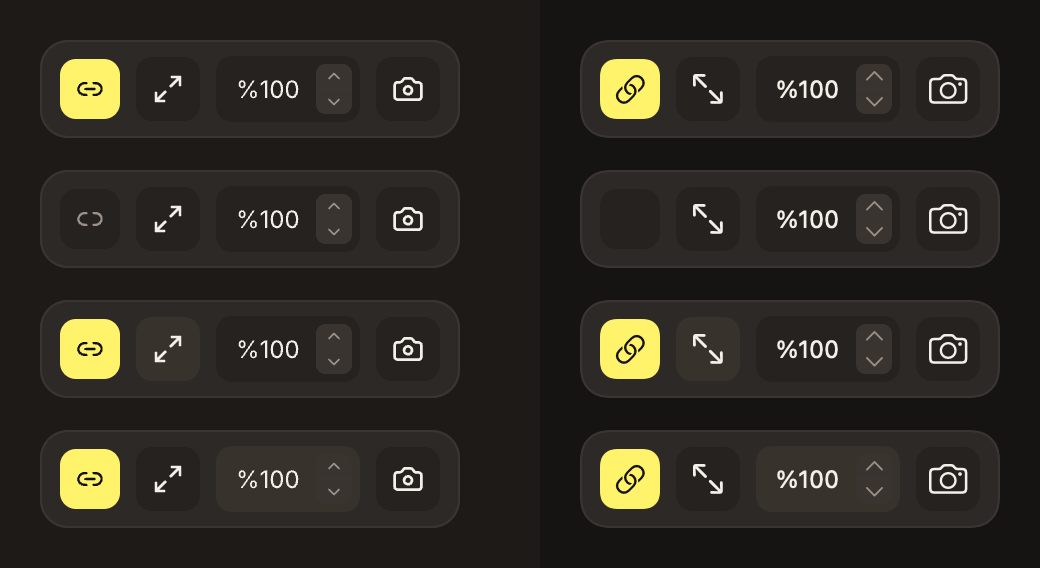
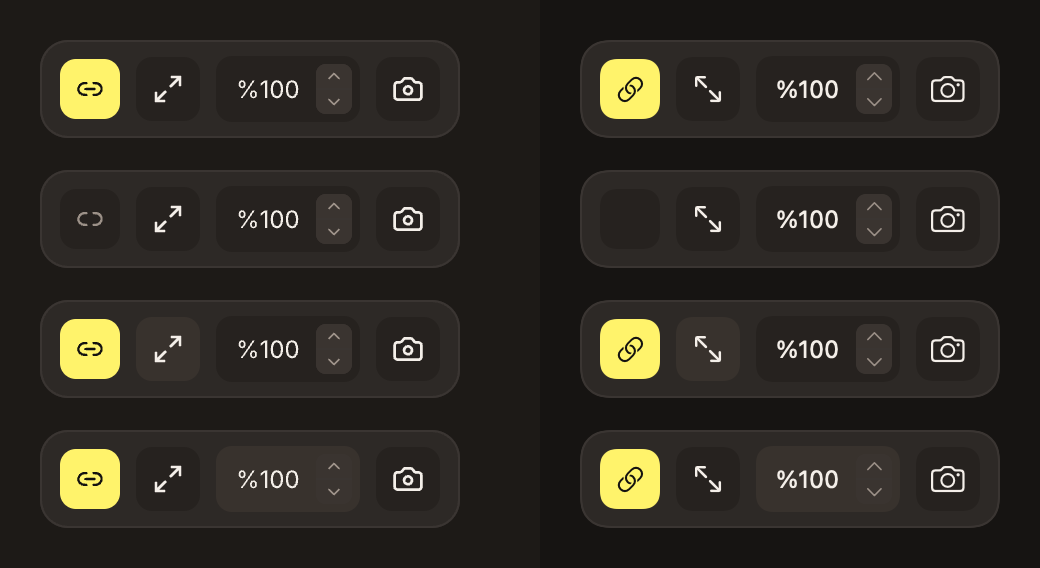
Decide SF Symbol size against Lucide: 0.875x regular
Comparison board rendered with real SF Symbols next to the design export
(bottom bar and rail, options 1.0 / 0.875 / 0.8125 / 0.8125 light). Skeleton
views take the scale from an environment value, default 0.875; rail skeleton
added; MCP icon becomes powerplug.portrait.

diff --git a/design/handoff/skeleton/InspectorRail.swift b/design/handoff/skeleton/InspectorRail.swift
@@ -1,0 +1,124 @@
+// Generated by design/handoff/gen_skeleton.py from specs/InspectorRail.json (2026-10-13) — trial skeleton, regenerate, do not edit.
+// pen.dev `Window/Rail` (O8YpHG), 44×900. States in DESIGN.md §6: öğe: default, hover, active, badge; ray gizliyken `RailHandle`
+// Pencerenin sağ kenarı, 44 px, tam yükseklik.
+// fill surface/bar · sol stroke line · padding 12 / 6 · gap 6.
+// Öğe 32×32, radius/control, ikon 16 ink/secondary. Sıra: Ayarlar, Cihazlar, MCP, Hesap · ayırıcı (20×1 line) · Farklar, Senkron · boşluk · daralt.
+// Hover: fill surface/header-leader. Aktif (panel açık): fill surface/header-leader + ikon ink/primary.
+// Rozet: 7 px status/warning nokta, öğenin sağ üstü (22,4).
+// Gizli: ray kalkar, canvas 44 px genişler; sağ kenarda üstte Window/RailHandle (24×56, sol köşeler 8) kalır. Farklar bulgusu varken tutamaçta mercan nokta. Tık, ⌥⌘0 ya da Görünüm menüsü rayı geri getirir; hover “Rayı göster ⌥⌘0”.
+import SwiftUI
+
+public struct InspectorRail: View {
+    public enum State { case varsayilan, rozet, hoverCihazlar, aktifFarklarAcik, tooltipRayOgesi }
+    public var state: State = .varsayilan
+    public var rIcon: String? = "gearshape"
+    public var rIconSize: CGFloat = 16
+    public var rIcon2: String? = "iphone"
+    public var rIcon2Size: CGFloat = 16
+    public var rIcon3: String? = "powerplug.portrait"
+    public var rIcon3Size: CGFloat = 16
+    public var rIcon4: String? = "person"
+    public var rIcon4Size: CGFloat = 16
+    public var rIcon5: String? = "square.split.2x1"
+    public var rIcon5Size: CGFloat = 16
+    public var rIcon6: String? = "waveform.path.ecg"
+    public var rIcon6Size: CGFloat = 16
+    public var rIcon7: String? = "sidebar.right"
+    public var rIcon7Size: CGFloat = 16
+    public var padding: EdgeInsets = EdgeInsets(top: 12, leading: 6, bottom: 12, trailing: 6)
+    public var background: Color = DesignTokens.Color.surfaceBar
+    public init(state: State = .varsayilan, rIcon: String? = "gearshape", rIconSize: CGFloat = 16, rIcon2: String? = "iphone", rIcon2Size: CGFloat = 16, rIcon3: String? = "powerplug.portrait", rIcon3Size: CGFloat = 16, rIcon4: String? = "person", rIcon4Size: CGFloat = 16, rIcon5: String? = "square.split.2x1", rIcon5Size: CGFloat = 16, rIcon6: String? = "waveform.path.ecg", rIcon6Size: CGFloat = 16, rIcon7: String? = "sidebar.right", rIcon7Size: CGFloat = 16, padding: EdgeInsets = EdgeInsets(top: 12, leading: 6, bottom: 12, trailing: 6), background: Color = DesignTokens.Color.surfaceBar) {
+        self.state = state
+        self.rIcon = rIcon
+        self.rIconSize = rIconSize
+        self.rIcon2 = rIcon2
+        self.rIcon2Size = rIcon2Size
+        self.rIcon3 = rIcon3
+        self.rIcon3Size = rIcon3Size
+        self.rIcon4 = rIcon4
+        self.rIcon4Size = rIcon4Size
+        self.rIcon5 = rIcon5
+        self.rIcon5Size = rIcon5Size
+        self.rIcon6 = rIcon6
+        self.rIcon6Size = rIcon6Size
+        self.rIcon7 = rIcon7
+        self.rIcon7Size = rIcon7Size
+        self.padding = padding
+        self.background = background
+    }
+
+    public var body: some View {
+        VStack(alignment: .center, spacing: 6) {  // Window/Rail
+            HStack(alignment: .center, spacing: 0) {  // Rail Ayarlar
+                if let rIcon {
+                    SkeletonSymbol(name: rIcon, size: rIconSize)
+                        .frame(width: rIconSize, height: rIconSize)
+                        .foregroundStyle(DesignTokens.Color.inkSecondary)
+                }
+            }
+            .frame(width: 32, height: 32)
+            HStack(alignment: .center, spacing: 0) {  // Rail Cihazlar
+                if let rIcon2 {
+                    SkeletonSymbol(name: rIcon2, size: rIcon2Size)
+                        .frame(width: rIcon2Size, height: rIcon2Size)
+                        .foregroundStyle(DesignTokens.Color.inkSecondary)
+                }
+            }
+            .frame(width: 32, height: 32)
+            .background((state == .tooltipRayOgesi ? DesignTokens.Color.surfaceHeaderLeader : (state == .hoverCihazlar ? DesignTokens.Color.surfaceHeaderLeader : Color.clear)), in: RoundedRectangle(cornerRadius: DesignTokens.Radius.control, style: .continuous))
+            HStack(alignment: .center, spacing: 0) {  // Rail MCP
+                if let rIcon3 {
+                    SkeletonSymbol(name: rIcon3, size: rIcon3Size)
+                        .frame(width: rIcon3Size, height: rIcon3Size)
+                        .foregroundStyle(DesignTokens.Color.inkSecondary)
+                }
+            }
+            .frame(width: 32, height: 32)
+            HStack(alignment: .center, spacing: 0) {  // Rail Hesap
+                if let rIcon4 {
+                    SkeletonSymbol(name: rIcon4, size: rIcon4Size)
+                        .frame(width: rIcon4Size, height: rIcon4Size)
+                        .foregroundStyle(DesignTokens.Color.inkSecondary)
+                }
+            }
+            .frame(width: 32, height: 32)
+            RoundedRectangle(cornerRadius: 0).fill(DesignTokens.Color.line)
+            .frame(width: 20, height: 1)
+            HStack(alignment: .center, spacing: 0) {  // Rail Diff
+                if let rIcon5 {
+                    SkeletonSymbol(name: rIcon5, size: rIcon5Size)
+                        .frame(width: rIcon5Size, height: rIcon5Size)
+                        .foregroundStyle((state == .aktifFarklarAcik ? DesignTokens.Color.inkPrimary : DesignTokens.Color.inkSecondary))
+                }
+                Circle().fill(DesignTokens.Color.statusWarning)
+                .frame(width: 7, height: 7)
+            }
+            .frame(width: 32, height: 32)
+            .background((state == .aktifFarklarAcik ? DesignTokens.Color.surfaceHeaderLeader : Color.clear), in: RoundedRectangle(cornerRadius: DesignTokens.Radius.control, style: .continuous))
+            HStack(alignment: .center, spacing: 0) {  // Rail Senkron
+                if let rIcon6 {
+                    SkeletonSymbol(name: rIcon6, size: rIcon6Size)
+                        .frame(width: rIcon6Size, height: rIcon6Size)
+                        .foregroundStyle(DesignTokens.Color.inkSecondary)
+                }
+            }
+            .frame(width: 32, height: 32)
+            HStack(alignment: .center, spacing: 0) {  // RailSpacer
+            }
+            .frame(width: 1)
+            .frame(maxHeight: .infinity)
+            HStack(alignment: .center, spacing: 0) {  // Rail Collapse
+                if let rIcon7 {
+                    SkeletonSymbol(name: rIcon7, size: rIcon7Size)
+                        .frame(width: rIcon7Size, height: rIcon7Size)
+                        .foregroundStyle(DesignTokens.Color.inkSecondary)
+                }
+            }
+            .frame(width: 32, height: 32)
+        }
+        .padding(padding)
+        .frame(width: 44, height: 900)
+        .background(background, in: RoundedRectangle(cornerRadius: 0, style: .continuous))
+        .overlay(RoundedRectangle(cornerRadius: 0, style: .continuous).strokeBorder(DesignTokens.Color.line, lineWidth: 1 /* one side only */))
+    }
+}

diff --git a/design/handoff/skeleton/SkeletonSymbol.swift b/design/handoff/skeleton/SkeletonSymbol.swift
@@ -1,12 +1,31 @@
 // Generated by design/handoff/gen_skeleton.py — shared helper for skeleton views.
 import SwiftUI
 
+/// How big an SF Symbol is drawn relative to the Lucide box size in the design (`size`). SF Symbols at the same
+/// point size look larger than Lucide icons; the ratio is a design decision (DESIGN.md §4, icon size).
+public struct SkeletonIconStyle: Sendable {
+    public var scale: CGFloat
+    public var weight: Font.Weight
+    /// Decided 2026-10-13 (DESIGN.md §4): SF Symbol point size = Lucide box × 0.875, regular (16 → 14 pt).
+    public init(scale: CGFloat = 0.875, weight: Font.Weight = .regular) { self.scale = scale; self.weight = weight }
+}
+private struct SkeletonIconStyleKey: EnvironmentKey { static let defaultValue = SkeletonIconStyle() }
+public extension EnvironmentValues {
+    var skeletonIconStyle: SkeletonIconStyle {
+        get { self[SkeletonIconStyleKey.self] }
+        set { self[SkeletonIconStyleKey.self] = newValue }
+    }
+}
+
 /// SF Symbol, or an asset-catalog symbol for the custom ones in design/handoff/icons.md (`link.slash`, engine glyphs).
 public struct SkeletonSymbol: View {
     public static let custom: Set<String> = ["link.slash", "engine.webkit", "engine.chromium", "engine.firefox"]
+    @Environment(\.skeletonIconStyle) private var style
     public let name: String
-    public init(name: String) { self.name = name }
+    public let size: CGFloat
+    public init(name: String, size: CGFloat) { self.name = name; self.size = size }
     public var body: some View {
-        if Self.custom.contains(name) { Image(name) } else { Image(systemName: name) }
+        Group { if Self.custom.contains(name) { Image(name) } else { Image(systemName: name) } }
+            .font(.system(size: size * style.scale, weight: style.weight))
     }
 }

diff --git a/design/handoff/skeleton/ZoomControl.swift b/design/handoff/skeleton/ZoomControl.swift
@@ -30,8 +30,7 @@ public struct ZoomControl: View {
             VStack(alignment: .leading, spacing: 1) {  // Stepper
                 HStack(alignment: .center, spacing: 0) {  // Up
                     if let upIcon {
-                        SkeletonSymbol(name: upIcon)
-                            .font(.system(size: upIconSize))
+                        SkeletonSymbol(name: upIcon, size: upIconSize)
                             .frame(width: upIconSize, height: upIconSize)
                             .foregroundStyle(DesignTokens.Color.inkSecondary)
                     }
@@ -40,8 +39,7 @@ public struct ZoomControl: View {
                 .background(DesignTokens.Color.surfacePill, in: RoundedRectangle(cornerRadius: 0, style: .continuous))
                 HStack(alignment: .center, spacing: 0) {  // Down
                     if let downIcon {
-                        SkeletonSymbol(name: downIcon)
-                            .font(.system(size: downIconSize))
+                        SkeletonSymbol(name: downIcon, size: downIconSize)
                             .frame(width: downIconSize, height: downIconSize)
                             .foregroundStyle(DesignTokens.Color.inkSecondary)
                     }

diff --git a/design/handoff/skeleton/BottomBar.swift b/design/handoff/skeleton/BottomBar.swift
@@ -28,8 +28,7 @@ public struct BottomBar: View {
         HStack(alignment: .center, spacing: DesignTokens.Space.s2) {  // Window/BottomBar
             HStack(alignment: .center, spacing: 6) {  // Sync Toggle
                 if let syncIcon {
-                    SkeletonSymbol(name: (state == .senkronKapali ? "link.slash" : syncIcon))
-                        .font(.system(size: syncIconSize))
+                    SkeletonSymbol(name: (state == .senkronKapali ? "link.slash" : syncIcon), size: syncIconSize)
                         .frame(width: syncIconSize, height: syncIconSize)
                         .foregroundStyle((state == .senkronKapali ? DesignTokens.Color.inkSecondary : DesignTokens.Color.accentInk))
                 }

diff --git a/design/handoff/skeleton/ChromeButton.swift b/design/handoff/skeleton/ChromeButton.swift
@@ -19,8 +19,7 @@ public struct ChromeButton: View {
     public var body: some View {
         HStack(alignment: .center, spacing: 6) {  // Toolbar/Button
             if let icon {
-                SkeletonSymbol(name: icon)
-                    .font(.system(size: iconSize))
+                SkeletonSymbol(name: icon, size: iconSize)
                     .frame(width: iconSize, height: iconSize)
                     .foregroundStyle(DesignTokens.Color.inkPrimary)
             }

diff --git a/design/handoff/gen_skeleton.py b/design/handoff/gen_skeleton.py
@@ -182,8 +182,7 @@ class Gen:
                 for st, v in per.items():
                     sym = f"(state == .{st} ? {json.dumps(symbol(v)[0])} : {sym})"
             return [f"{pad}if let {p} {{",
-                    f"{pad}    SkeletonSymbol(name: {sym if per else p})",
-                    f"{pad}        .font(.system(size: {size}))",
+                    f"{pad}    SkeletonSymbol(name: {sym if per else p}, size: {size})",
                     f"{pad}        .frame(width: {size}, height: {size})",
                     f"{pad}        .foregroundStyle({self.val(nid, 'fill', tok(n.get('fill', '$ink/primary')))})",
                     f"{pad}}}"]
@@ -290,13 +289,32 @@ class Gen:
 SUPPORT = '''// Generated by design/handoff/gen_skeleton.py — shared helper for skeleton views.
 import SwiftUI
 
+/// How big an SF Symbol is drawn relative to the Lucide box size in the design (`size`). SF Symbols at the same
+/// point size look larger than Lucide icons; the ratio is a design decision (DESIGN.md §4, icon size).
+public struct SkeletonIconStyle: Sendable {
+    public var scale: CGFloat
+    public var weight: Font.Weight
+    /// Decided 2026-10-13 (DESIGN.md §4): SF Symbol point size = Lucide box × 0.875, regular (16 → 14 pt).
+    public init(scale: CGFloat = 0.875, weight: Font.Weight = .regular) { self.scale = scale; self.weight = weight }
+}
+private struct SkeletonIconStyleKey: EnvironmentKey { static let defaultValue = SkeletonIconStyle() }
+public extension EnvironmentValues {
+    var skeletonIconStyle: SkeletonIconStyle {
+        get { self[SkeletonIconStyleKey.self] }
+        set { self[SkeletonIconStyleKey.self] = newValue }
+    }
+}
+
 /// SF Symbol, or an asset-catalog symbol for the custom ones in design/handoff/icons.md (`link.slash`, engine glyphs).
 public struct SkeletonSymbol: View {
     public static let custom: Set<String> = ["link.slash", "engine.webkit", "engine.chromium", "engine.firefox"]
+    @Environment(\.skeletonIconStyle) private var style
     public let name: String
-    public init(name: String) { self.name = name }
+    public let size: CGFloat
+    public init(name: String, size: CGFloat) { self.name = name; self.size = size }
     public var body: some View {
-        if Self.custom.contains(name) { Image(name) } else { Image(systemName: name) }
+        Group { if Self.custom.contains(name) { Image(name) } else { Image(systemName: name) } }
+            .font(.system(size: size * style.scale, weight: style.weight))
     }
 }
 '''

diff --git a/design/handoff/build_icons.py b/design/handoff/build_icons.py
@@ -63,7 +63,7 @@ MAP = {
     "panel-right-open": ("Ray tutamacı › Rayı göster", "sidebar.right", "yakın", "SF'de aç/kapa ayrımı yok; aynı sembol."),
     "pause": ("Kart başlığı › senkron kapalı ‖", "pause", "1:1", ""),
     "pencil": ("Yeniden adlandır", "pencil", "1:1", ""),
-    "plug": ("Ray › MCP", "powerplug", "yakın", ""),
+    "plug": ("Ray › MCP", "powerplug.portrait", "1:1", "Dikey fiş, Lucide ile aynı yön (DESIGN.md §4)."),
     "plus": ("+ Cihaz, + Ekle, + Yeni", "plus", "1:1", ""),
     "rotate-ccw": ("Hover şeridi › Döndür", "rectangle.portrait.rotate", "öneri", "`arrow.counterclockwise` Geri al ile karışır; cihaz döndürme sembolü daha açık."),
     "rotate-cw": ("Sidebar nav › Yenile", "arrow.clockwise", "1:1", ""),
@@ -118,6 +118,8 @@ def main():
          "Arşiv dışı tüm görünür ikon düğümleri, instance içleri dahil.", "",
          "Tür: **1:1** aynı anlam ve şekil · **yakın** aynı anlam, şekil biraz farklı · **öneri** birebir karşılık yok, öneri "
          "(onaylandı, DESIGN.md §4 2026-10-13) · **özel** Assets'e özel sembol gerekir · **sistem** sembol değil, AppKit çizer.", "",
+         "**Boyut:** SF Symbol puntosu = tasarımdaki Lucide kutusu × 0.875, ağırlık regular (16 → 14 pt, 14 → 12,25, 10 → 8,75); "
+         "aynı puntoda SF Symbols Lucide'den iri görünür. Karşılaştırma `skeleton/icon-size-options@2x.png`, karar DESIGN.md §4 (2026-10-13).", "",
          ("SF adları macOS 26'da `NSImage(systemSymbolName:)` ile doğrulandı (`python3 build_icons.py --verify`)."
           if checked else "SF adları bu çalıştırmada doğrulanmadı (`--verify` yok)."), "",
          "| Nerede | Lucide | SF Symbol | Tür | Not | Kaynak (bileşen · ekran) |", "|---|---|---|---|---|---|"]

diff --git a/design/handoff/icons.md b/design/handoff/icons.md
@@ -4,6 +4,8 @@
 
 Tür: **1:1** aynı anlam ve şekil · **yakın** aynı anlam, şekil biraz farklı · **öneri** birebir karşılık yok, öneri (onaylandı, DESIGN.md §4 2026-10-13) · **özel** Assets'e özel sembol gerekir · **sistem** sembol değil, AppKit çizer.
 
+**Boyut:** SF Symbol puntosu = tasarımdaki Lucide kutusu × 0.875, ağırlık regular (16 → 14 pt, 14 → 12,25, 10 → 8,75); aynı puntoda SF Symbols Lucide'den iri görünür. Karşılaştırma `skeleton/icon-size-options@2x.png`, karar DESIGN.md §4 (2026-10-13).
+
 SF adları macOS 26'da `NSImage(systemSymbolName:)` ile doğrulandı (`python3 build_icons.py --verify`).
 
 | Nerede | Lucide | SF Symbol | Tür | Not | Kaynak (bileşen · ekran) |
@@ -22,7 +24,6 @@ SF adları macOS 26'da `NSImage(systemSymbolName:)` ile doğrulandı (`python3 b
 | Kaldır › Listeden kaldır | `list-x` | `text.badge.xmark` | yakın |  | Home Window ×1 |
 | Ray › Rayı gizle | `panel-right-close` | `sidebar.right` | yakın | SF'de aç/kapa ayrımı yok; aynı sembol. | `Window/Rail`, Dev Panel ×3, Project Window ×21, 2 durum frame'i |
 | Ray tutamacı › Rayı göster | `panel-right-open` | `sidebar.right` | yakın | SF'de aç/kapa ayrımı yok; aynı sembol. | `Window/RailHandle`, Project Window ×1, 1 durum frame'i |
-| Ray › MCP | `plug` | `powerplug` | yakın |  | `Window/Rail`, Dev Panel ×3, Home Window ×1, Project Window ×21, 2 durum frame'i |
 | Aramada sonuç yok | `search-x` | `magnifyingglass` | yakın | SF'de çarpılı büyüteç yok. | 1 durum frame'i |
 | Boyut popover'ı › en ↔ boy | `arrow-left-right` | `arrow.left.arrow.right` | 1:1 |  | 1 durum frame'i |
 | URL kutusu › Aç → | `arrow-right` | `arrow.right` | 1:1 |  | `Home/URLBox`, Home Window ×6, 2 durum frame'i |
@@ -55,6 +56,7 @@ SF adları macOS 26'da `NSImage(systemSymbolName:)` ile doğrulandı (`python3 b
 | Kenar çubuğu düğmesi (kapsülde) | `panel-left` | `sidebar.left` | 1:1 |  | `Window/CollapsedHeader`, Project Window ×2, 1 durum frame'i |
 | Kart başlığı › senkron kapalı ‖ | `pause` | `pause` | 1:1 |  | 2 durum frame'i |
 | Yeniden adlandır | `pencil` | `pencil` | 1:1 |  | Home Window ×2, 1 durum frame'i |
+| Ray › MCP | `plug` | `powerplug.portrait` | 1:1 | Dikey fiş, Lucide ile aynı yön (DESIGN.md §4). | `Window/Rail`, Dev Panel ×3, Home Window ×1, Project Window ×21, 2 durum frame'i |
 | + Cihaz, + Ekle, + Yeni | `plus` | `plus` | 1:1 |  | `Device/Picker`, `Toolbar/Button`, `Window/DeviceStrip`, Dev Panel ×3, Home Window ×6, Project Window ×22, 4 durum frame'i |
 | Sidebar nav › Yenile | `rotate-cw` | `arrow.clockwise` | 1:1 |  | `Sidebar/Header`, `Window/CollapsedHeader`, Dev Panel ×3, Project Window ×22, 2 durum frame'i |
 | Cihaz seçici › Özel boyut | `ruler` | `ruler` | 1:1 |  | `Device/Picker`, Project Window ×2 |

diff --git a/design/KOD-OTURUMU-ISLERI.md b/design/KOD-OTURUMU-ISLERI.md
@@ -152,3 +152,4 @@ Her etkileşim için DESIGN.md'deki etkileşim tablosu sözleşmedir. Arayüze d
 - [ ] **Kabul listesi = DESIGN.md §3 etkileşim id'leri** (`HOME-01`…, `STRIP-01`…, `CARD-`, `SIDEBAR-`, `BAR-`, `PW-`, `RAIL-`, `SETTINGS-`, `DEV-`; toplam 80). Bir ekranın hangi id'lere baktığı `design/handoff/manifest.md` › Ekranlar › Etkileşim. Commit ve `docs/tasarim-istekleri.md` girdilerinde id'yi an (ör. "CARD-07 bitti").
 - [ ] **Örnek sayfa:** `design/fixtures/sample-product.html`'i `Packages/ViewportixKit/Tests/Fixtures/`'a kopyala (tek dosya). Seçiciler `.product-title`, `.price`, `.add-to-cart`, `.size-m`, `#qty`; telefon/tablet arası bilinçli farklar dosya başındaki yorumda; `?missing-cart` masaüstünde `.add-to-cart`'ı kaldırır (senkron kaçırma testi). Referans görüntüler `design/fixtures/renders/`.
 - [ ] **İskelet denemesi (aşama 9):** `design/handoff/skeleton/BottomBar.swift` (+ `ChromeButton`, `ZoomControl`, `SkeletonSymbol`) spec'ten üretildi, `DesignTokens.swift` ile typecheck temiz, dört durum 210×49 (`BottomBar-compare@2x.png`). Elle kurduğun `BottomBar` (§14 ilk madde) ile karşılaştır ve `docs/tasarim-istekleri.md`'ye "iskelet: işe yarar / yaramaz + neden" yaz. Not: SF Symbols aynı puntoda Lucide'den iri; ikon boyutu için tasarım kararı gelecek.
+- [ ] **İkon boyutu (karar 2026-10-13):** SF Symbol puntosu = tasarımdaki ikon kutusu × 0.875, regular (16 → 14 pt). Örnek: `Image(systemName:).font(.system(size: DesignTokens.Size.icon * 0.875))`. MCP ikonu `powerplug.portrait`. Pano `design/handoff/skeleton/icon-size-options@2x.png`.

diff --git a/design/HANDOFF.md b/design/HANDOFF.md
@@ -31,7 +31,7 @@ Yok (2026-10-13). MVP ve M3 kapsamı çizildi, onaylandı ve koda aktarıldı (`
 
 ## Sürmekte olan iş: aktarım paketi
 
-Plan ve ilerleme: `design/handoff/PLAN.md` ([[PLAN]]). Aşama 0–2 bitti; 3 (bileşen spec'leri) kod oturumunun `BottomBar` denemesini bekliyor (`KOD-OTURUMU-ISLERI.md` §14); 5 (ikon eşleme), 4 (CHK, hepsi PASS), 7 (etkileşim id'leri, 80 satır) ve 6 (örnek sayfa) bitti; 8 (parite) kod oturumunun ilk ekranını, 3'ün kabulü `BottomBar` denemesini, 9 (iskelet denemesi; typecheck temiz, ölçüler tutuyor) kod oturumunun değerlendirmesini bekliyor. Açık görsel konu: SF Symbols boyutu (Lucide'den iri). Birden çok oturuma yayılır; yeni oturum önce o dosyayı okur ve ilk tamamlanmamış aşamadan devam eder.
+Plan ve ilerleme: `design/handoff/PLAN.md` ([[PLAN]]). Aşama 0–2 bitti; 3 (bileşen spec'leri) kod oturumunun `BottomBar` denemesini bekliyor (`KOD-OTURUMU-ISLERI.md` §14); 5 (ikon eşleme), 4 (CHK, hepsi PASS), 7 (etkileşim id'leri, 80 satır) ve 6 (örnek sayfa) bitti; 8 (parite) kod oturumunun ilk ekranını, 3'ün kabulü `BottomBar` denemesini, 9 (iskelet denemesi; typecheck temiz, ölçüler tutuyor) kod oturumunun değerlendirmesini bekliyor. İkon boyutu kararı verildi (SF = Lucide × 0.875). Birden çok oturuma yayılır; yeni oturum önce o dosyayı okur ve ilk tamamlanmamış aşamadan devam eder.
 
 ## Oturum başında oku
 

diff --git a/design/handoff/PLAN.md b/design/handoff/PLAN.md
@@ -144,3 +144,4 @@ Yalnızca eklenir. Biçim: `### YYYY-MM-DD · <aşamalar>` altında: yapılan, k
 - Bulgular (parite için): (1) SF Symbols aynı puntoda Lucide'den belirgin iri; uygulamada ikon boyutu küçültülmeli, oran görsel karar (kullanıcıya). (2) Senkron kapalı ikonu boş: `link.slash` özel sembolü Assets'e eklenince görünür. (3) Metinler SF Pro, tasarım Inter vekili; genişlikler aynı çıktı.
 - Sınırlar: durumlar tek enum (spec frame'lerindeki gibi); gerçek uygulamada senkron açık/kapalı ile düğme hover'ı bağımsız durumlar olmalı. Tooltip gibi yanına çizilen parçalar üretilmiyor, yorumda listeleniyor. Davranış (tık, menü) yok.
 - Sonraki adım: kod oturumunun değerlendirmesi → ✅ ya da ⛔.
+- Ek (aynı gün): kullanıcı isteğiyle ikon boyutu karşılaştırması. Pen.dev SF Symbols çizemediği için pano SwiftUI'da çizildi: tasarım dışa aktarımı (alt çubuk + ray) yanında iskelet A 1.0 / B 0.875 / C 0.8125 / D 0.8125 light; `gen_skeleton.py`'ye `SkeletonIconStyle` (ortam değeri) eklendi, `InspectorRail` iskeleti de üretildi (typecheck temiz). Karar B + MCP için `powerplug.portrait` (DESIGN.md §4); iskelet varsayılanı 0.875, `icons.md` boyut kuralını yazıyor, `BottomBar-compare@2x.png` yeni varsayılanla yenilendi. Kanıt: `skeleton/icon-size-options@2x.png`, `build_icons.py --verify` → `problems 0`.

diff --git a/DESIGN.md b/DESIGN.md
@@ -333,6 +333,8 @@ Sağ raydan açılır, canvas'ı iter (320 px). Tasarım ilkesi: **sakin ama tek
 | Cihaz seçicinin motor sütununda da kart başlığındaki motor glifleri (`Engine Glyphs`) kullanılır; Lucide yer tutucuları (pusula, kesikli halka, alev) kaldırıldı | 2026-10-13 |
 | Token'a eşit ham değer kuralı ekranlara da uygulandı (138 yazı boyutu, 13 renk, 19 boş dolgu); grup alanı zemini yeni token `surface/group` (koyu `#FFFFFF05`, açık `#0000000A`); "Drag hint" zemini `surface/tooltip`'e bağlandı (`#0E0D0C` → `#0B0A09`). Elenen: grup zemini ham kalsın | 2026-10-13 |
 | Belgeleme panoları (`Design System · Tokens`, `Shortcut Map`, `Engine Glyphs`, `App Icon · B variants`) ve keşif `Selected Options` CHK-1 (token dışı değer) dışında; arayüz frame'leri için kural sıkı | 2026-10-13 |
+| SF Symbols boyutu: punto = tasarımdaki Lucide kutusu × 0.875, ağırlık regular (B; 16 → 14 pt, 14 → 12,25). Aynı puntoda SF Symbols Lucide'den iri görünüyor; karşılaştırma `design/handoff/skeleton/icon-size-options@2x.png` (gerçek SF Symbols, macOS 26). Elenen: A 1.0 (iri), C 0.8125 (rayda cılız), D 0.8125 light (ikincil renkte soluk) | 2026-10-13 |
+| MCP ikonu `powerplug.portrait` (dikey fiş, Lucide `plug` ile aynı yön); önceki `powerplug` superseded | 2026-10-13 |
 
 ## 5. Bekleyen tasarım kararları
 
